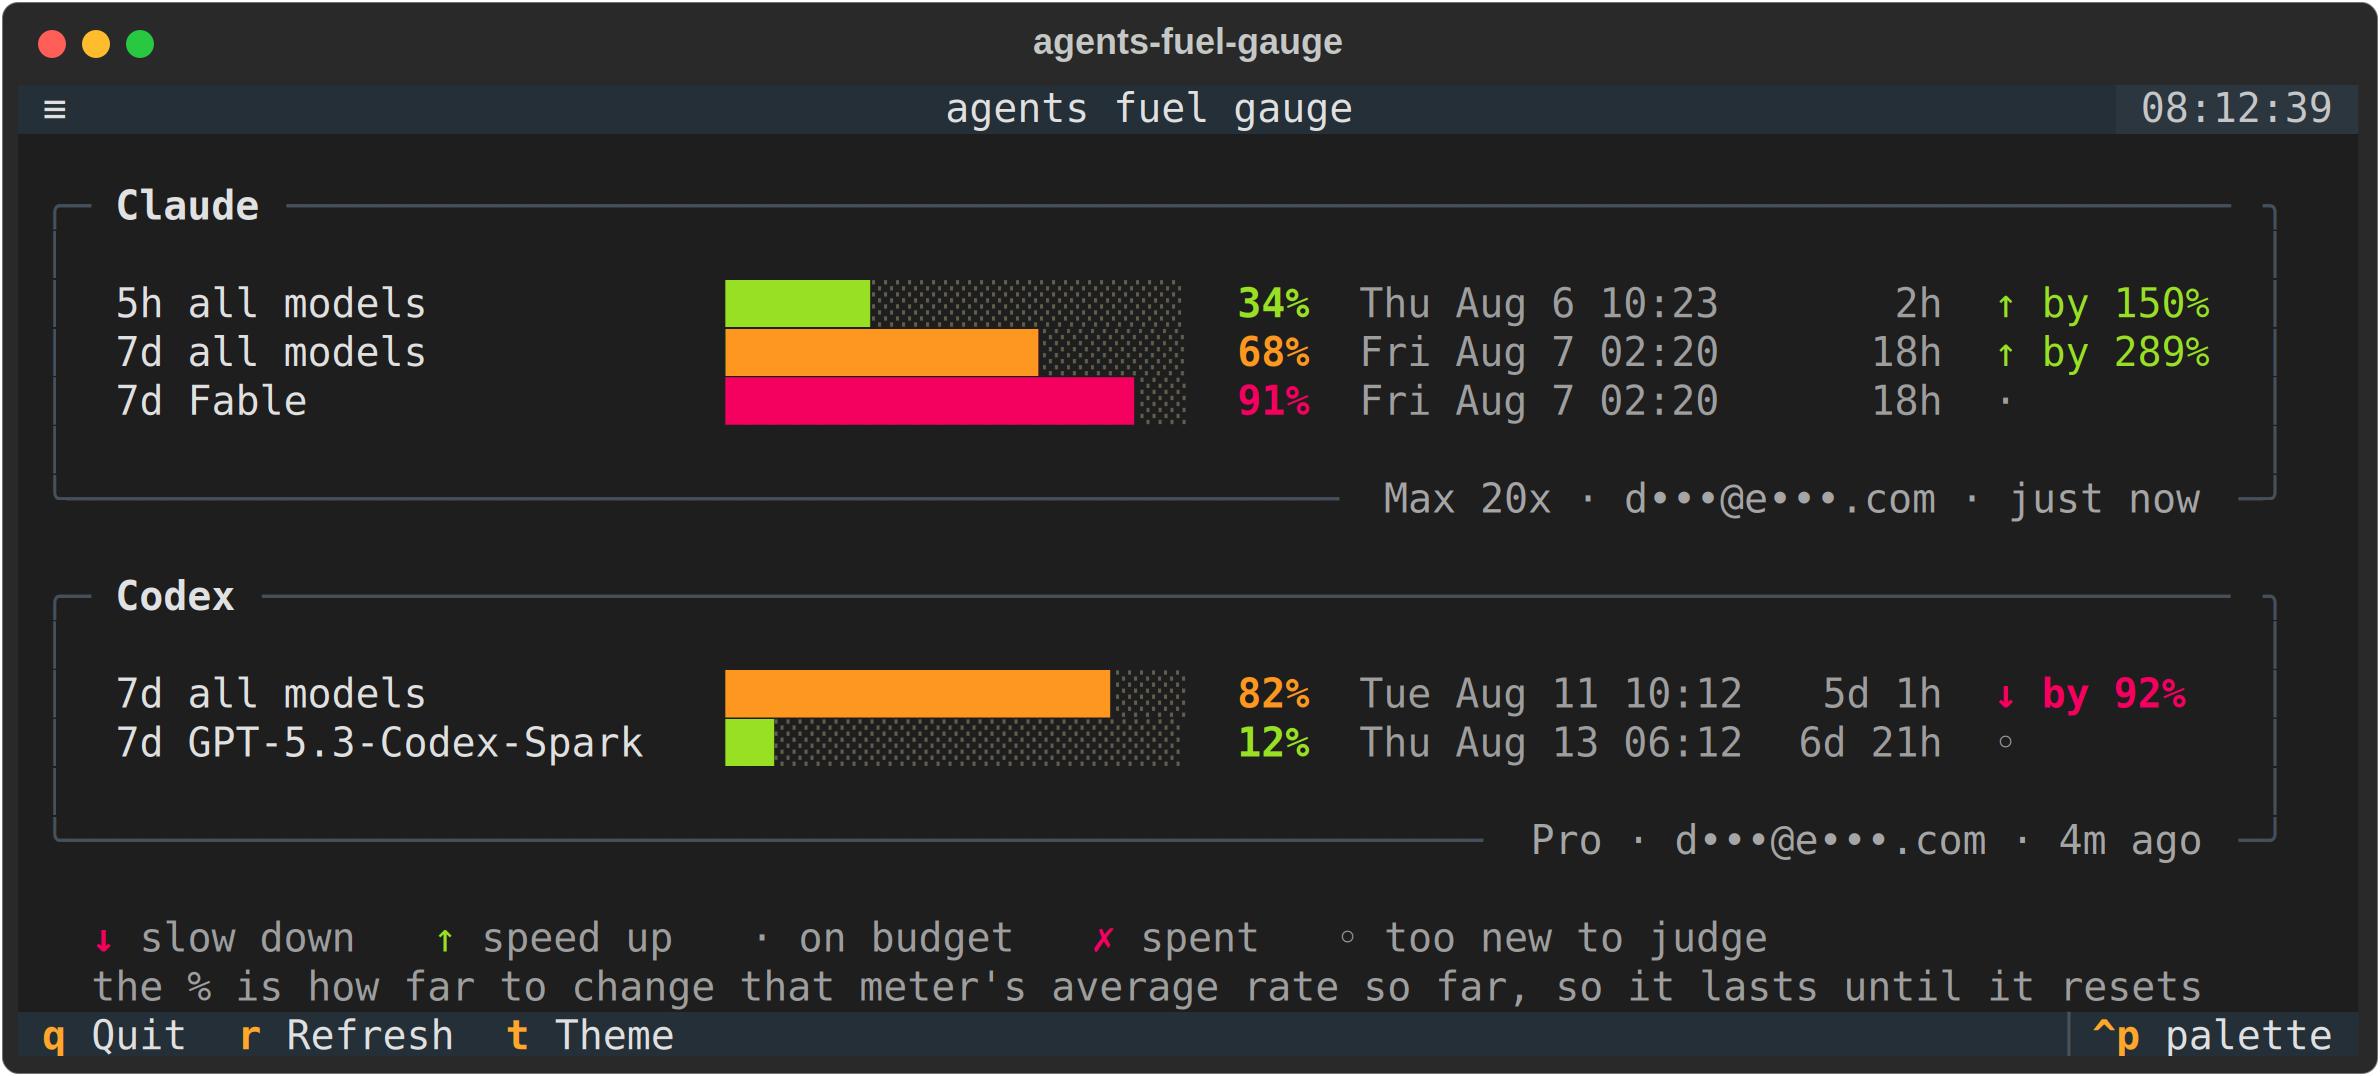
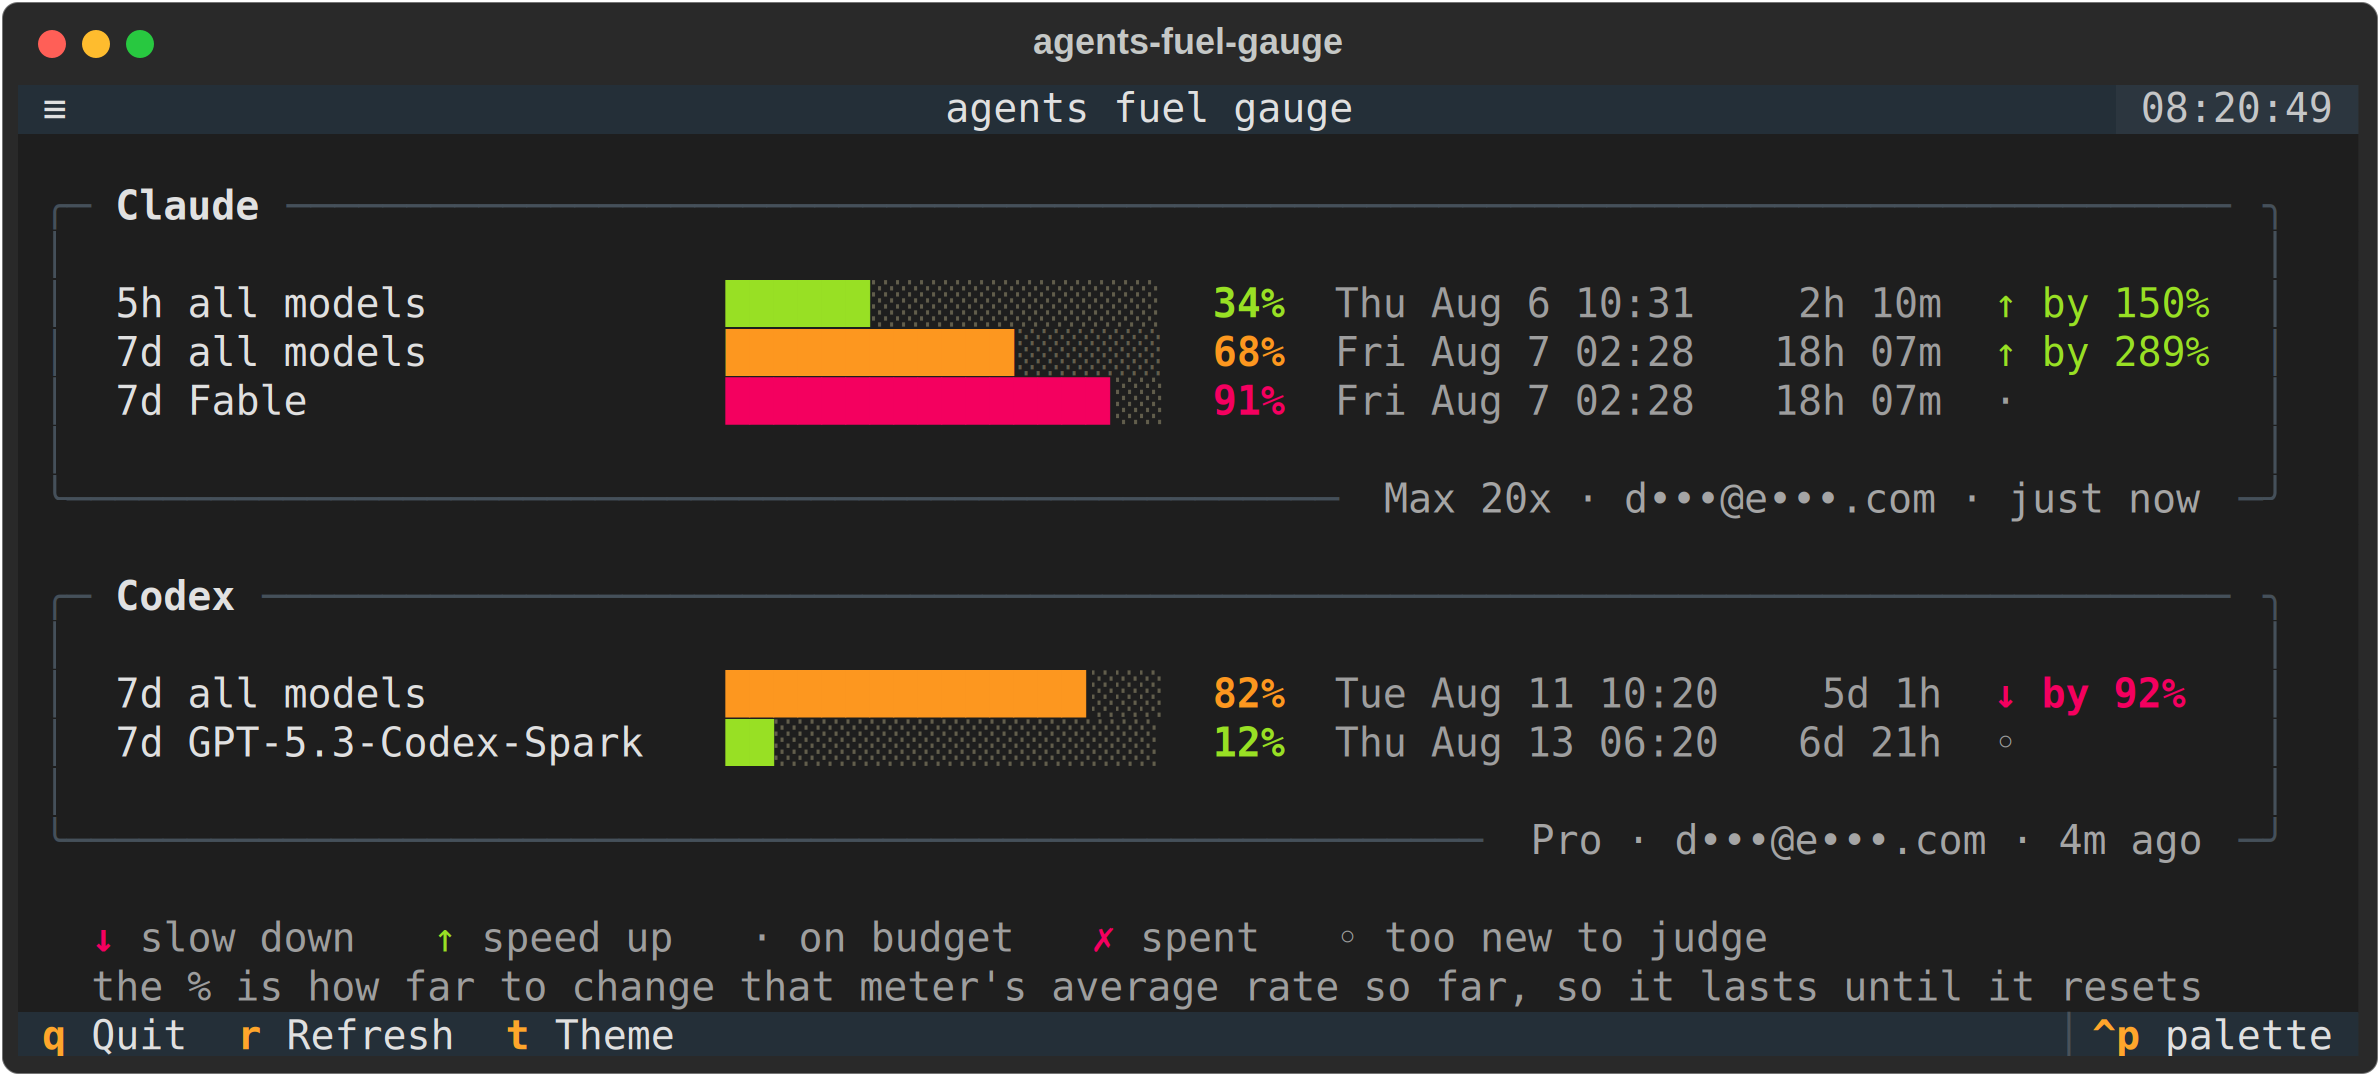
Show minutes alongside hours in the countdown (0.4.1)
"3h" and "3h 58m" are an hour apart, and an hour is the difference between
starting a piece of work and not. Inside a day the countdown now reads
"3h 42m"; past a day it stays "5d 1h", where the minutes are noise nobody
plans Tuesday around.

Minutes are zero-padded ("3h 05m") so the column stays flush when
right-aligned — unpadded, "3h 5m" and "18h 42m" jag against each other.

Costs one column, which moves the width at which the wall-clock reset time
yields from 52 to 54. Re-measured and re-pinned rather than guessed.

Claude-Session: https://claude.ai/code/session_01Kt6XfX2h9Faw86CR2rd9Ep

diff --git a/tests/test_app.py b/tests/test_app.py
@@ -294,7 +294,7 @@ class TestNarrowTerminal:
             for arrow in PACE_ARROW.values():
                 assert arrow in text, f"{arrow} undocumented at width {width}"
 
-    @pytest.mark.parametrize("width", [120, 80, 60, 56, 52, 50])
+    @pytest.mark.parametrize("width", [120, 80, 60, 56, 54, 52])
     async def test_absolute_reset_time_is_shown_when_there_is_room(self, stub, width):
         """A duration alone means doing arithmetic against your calendar."""
         app = FuelGaugeApp(interval=3600)
@@ -310,10 +310,11 @@ class TestNarrowTerminal:
     async def test_the_arrow_outlives_the_reset_clock(self, stub, width):
         """What to do about a meter outranks exactly when it resets.
 
-        Carrying the magnitude costs about six columns, so the wall-clock reset
-        time now yields at 50 rather than 44. That is the intended trade: the
-        relative countdown still answers "have I got time for this", while
-        nothing else on the row says which way to move.
+        Carrying the magnitude costs about six columns, and showing minutes
+        alongside hours costs one more, so the wall-clock reset time yields at
+        52 rather than the 44 it managed when the row was cheaper. That is the
+        intended trade: the relative countdown still answers "have I got time
+        for this", while nothing else on the row says which way to move.
         """
         app = FuelGaugeApp(interval=3600)
         async with app.run_test(size=(width, 30)) as pilot:

diff --git a/tests/test_parsing.py b/tests/test_parsing.py
@@ -14,6 +14,7 @@ from agents_fuel_gauge.models import (
     ProviderSnapshot,
     format_age,
     format_countdown,
+    format_remaining,
     mask_email,
 )
 from agents_fuel_gauge.sources import (
@@ -261,6 +262,22 @@ class TestHelpers:
         assert format_countdown(18 * 3600 + 8 * 60) == "18h 08m"
         assert format_countdown(75) == "1m 15s"
         assert format_countdown(None) == ""
+
+    def test_remaining_granularity(self):
+        """Minutes matter inside a day and are noise past one."""
+        assert format_remaining(3 * 3600 + 42 * 60) == "3h 42m"
+        assert format_remaining(3 * 3600 + 5 * 60) == "3h 05m"
+        assert format_remaining(23 * 3600 + 59 * 60) == "23h 59m"
+        assert format_remaining(5 * 86400 + 3600 + 42 * 60) == "5d 1h"
+        assert format_remaining(42 * 60) == "42m"
+        assert format_remaining(30) == "<1m"
+        assert format_remaining(None) == ""
+
+    def test_remaining_minutes_are_padded_so_the_column_stays_flush(self):
+        """Right-aligned, "3h 5m" and "18h 42m" would jag against each other."""
+        short = format_remaining(3 * 3600 + 5 * 60)
+        long = format_remaining(18 * 3600 + 42 * 60)
+        assert len(short) + 1 == len(long)  # differs only by the hours digit
 
     def test_mask_email(self):
         assert mask_email("someone@example.com") == "s•••@e•••.com"

diff --git a/src/agents_fuel_gauge/models.py b/src/agents_fuel_gauge/models.py
@@ -89,21 +89,27 @@ def format_reset_at(when: datetime | None, style: str = "full") -> str:
 
 
 def format_remaining(seconds: int | None) -> str:
-    """Days and hours, or just hours inside a day, or minutes inside an hour.
+    """Days and hours, or hours and minutes inside a day, or minutes.
 
-    Coarser than `format_countdown` on purpose: the exact reset time is shown
-    beside it, so this only has to answer "roughly how long have I got".
+    Precision is spent where a decision hangs on it. Inside a day, "3h" and
+    "3h 58m" are an hour apart, and an hour is the difference between starting
+    a piece of work and not. Past a day the minutes are noise — nobody plans
+    Tuesday around whether the reset lands at 10:05 or 10:47 — so `5d 1h` keeps
+    the column narrow for a number read at a glance.
+
+    Minutes are zero-padded so the column stays flush when right-aligned:
+    unpadded, "3h 5m" and "18h 42m" jag against each other.
     """
     if seconds is None:
         return ""
     total = int(seconds)
     days, rem = divmod(total, 86_400)
     hours, rem = divmod(rem, 3_600)
+    minutes = rem // 60
     if days:
         return f"{days}d {hours}h"
     if hours:
-        return f"{hours}h"
-    minutes = rem // 60
+        return f"{hours}h {minutes:02d}m"
     return f"{minutes}m" if minutes else "<1m"
 
 

diff --git a/src/agents_fuel_gauge/cli.py b/src/agents_fuel_gauge/cli.py
@@ -211,7 +211,7 @@ def render_pretty(snapshots: list[ProviderSnapshot], color: bool) -> str:
             lines.append(
                 f"  {gauge.label:<24}{tint}{bar}{off} "
                 f"{tint}{gauge.percent:>3.0f}%{off}  "
-                f"resets {resets}  ({left:>6})  {note}"
+                f"resets {resets}  ({left:>7})  {note}"
             )
     if not lines:
         return "no usage data\n"

diff --git a/src/agents_fuel_gauge/__init__.py b/src/agents_fuel_gauge/__init__.py
@@ -3,7 +3,7 @@
 Every subscription quota for Claude Code and Codex, on one screen.
 """
 
-__version__ = "0.4.0"
+__version__ = "0.4.1"
 __author__ = "ItsumiMario"
 __license__ = "MIT"
 

diff --git a/README.md b/README.md
@@ -131,11 +131,11 @@ blanks a panel — the last known numbers stay up behind a warning.
 
 ```console
 $ afg --check
-claude  5h  all-models           34%  2h10m   -       spare_capacity  2026-08-06T10:16  2h     +150%
-claude  7d  all-models           68%  18h07m  -       spare_capacity  2026-08-07T02:13  18h    +289%
-claude  7d  Fable                91%  18h07m  ACTIVE  on_track        2026-08-07T02:13  18h    -
-codex   7d  all-models           82%  5d01h   -       slow_down       2026-08-11T10:05  5d1h   -92%
-codex   7d  GPT-5.3-Codex-Spark  12%  6d21h   -       too_early       2026-08-13T06:05  6d21h  -
+claude  5h  all-models           34%  2h10m   -       spare_capacity  2026-08-06T10:31  2h10m   +150%
+claude  7d  all-models           68%  18h07m  -       spare_capacity  2026-08-07T02:28  18h07m  +289%
+claude  7d  Fable                91%  18h07m  ACTIVE  on_track        2026-08-07T02:28  18h07m  -
+codex   7d  all-models           82%  5d01h   -       slow_down       2026-08-11T10:20  5d1h    -92%
+codex   7d  GPT-5.3-Codex-Spark  12%  6d21h   -       too_early       2026-08-13T06:20  6d21h   -
 ```
 
 | | Column | |
@@ -144,11 +144,11 @@ codex   7d  GPT-5.3-Codex-Spark  12%  6d21h   -       too_early       2026-08-13
 | `$2` | window | `5h`, `7d` |
 | `$3` | scope | `all-models` or a model name |
 | `$4` | used | percent |
-| `$5` | resets in | countdown |
+| `$5` | resets in | countdown, to the second in the last hour |
 | `$6` | flags | `ACTIVE` — the provider says this limit is the one in force. `STALE` — carried over from an earlier poll |
 | `$7` | pace verdict | |
 | `$8` | resets at | local time, ISO-ish |
-| `$9` | remaining | days and hours |
+| `$9` | remaining | `18h07m` inside a day, `5d1h` past one |
 | `$10` | change | signed: `-92%` means slow down by 92% |
 
 Every field is a single whitespace-free token, so awk columns mean what you'd
